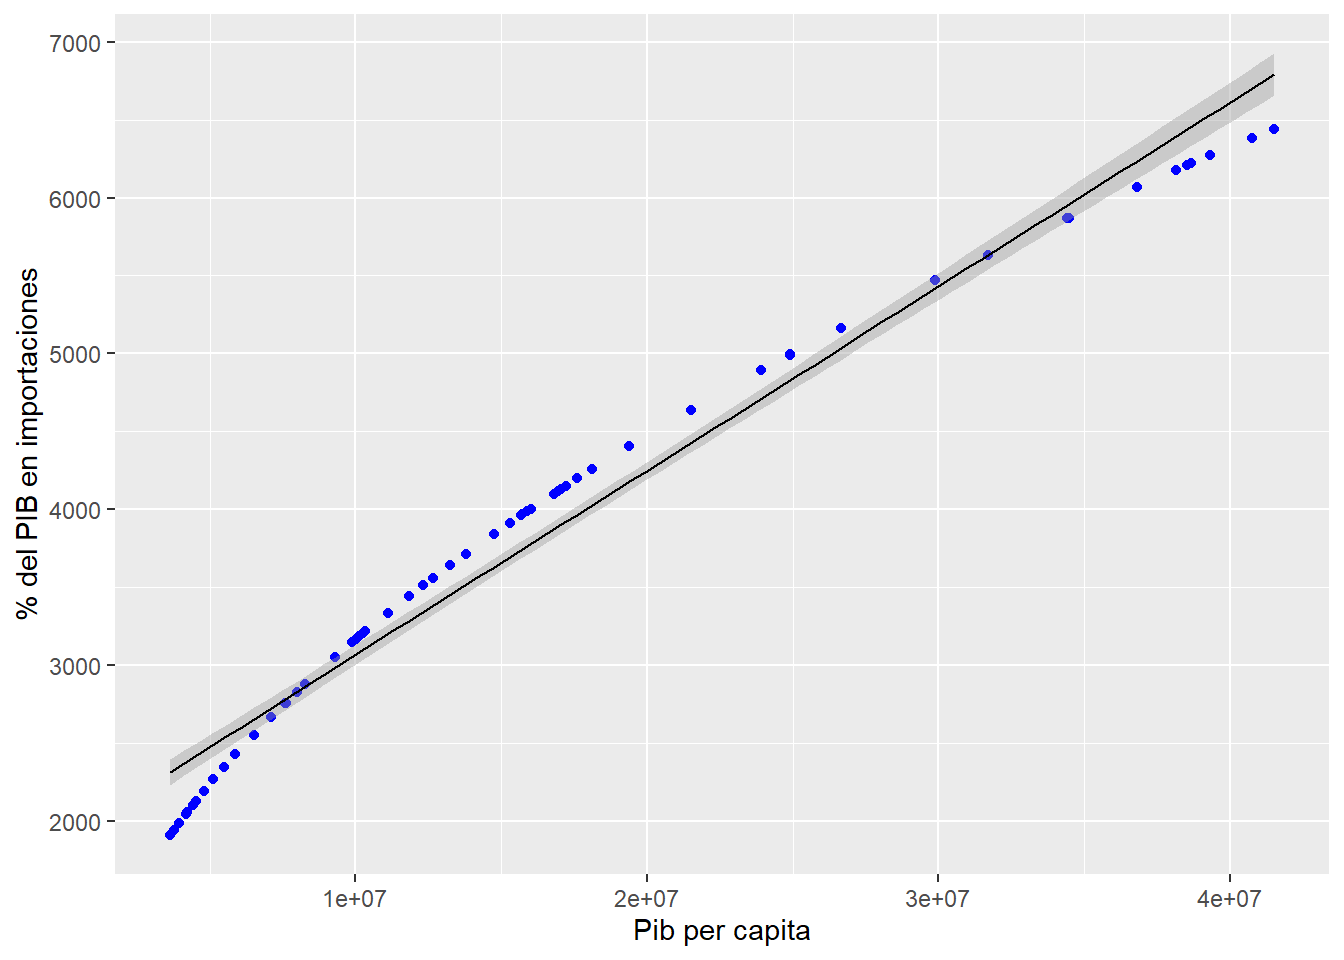
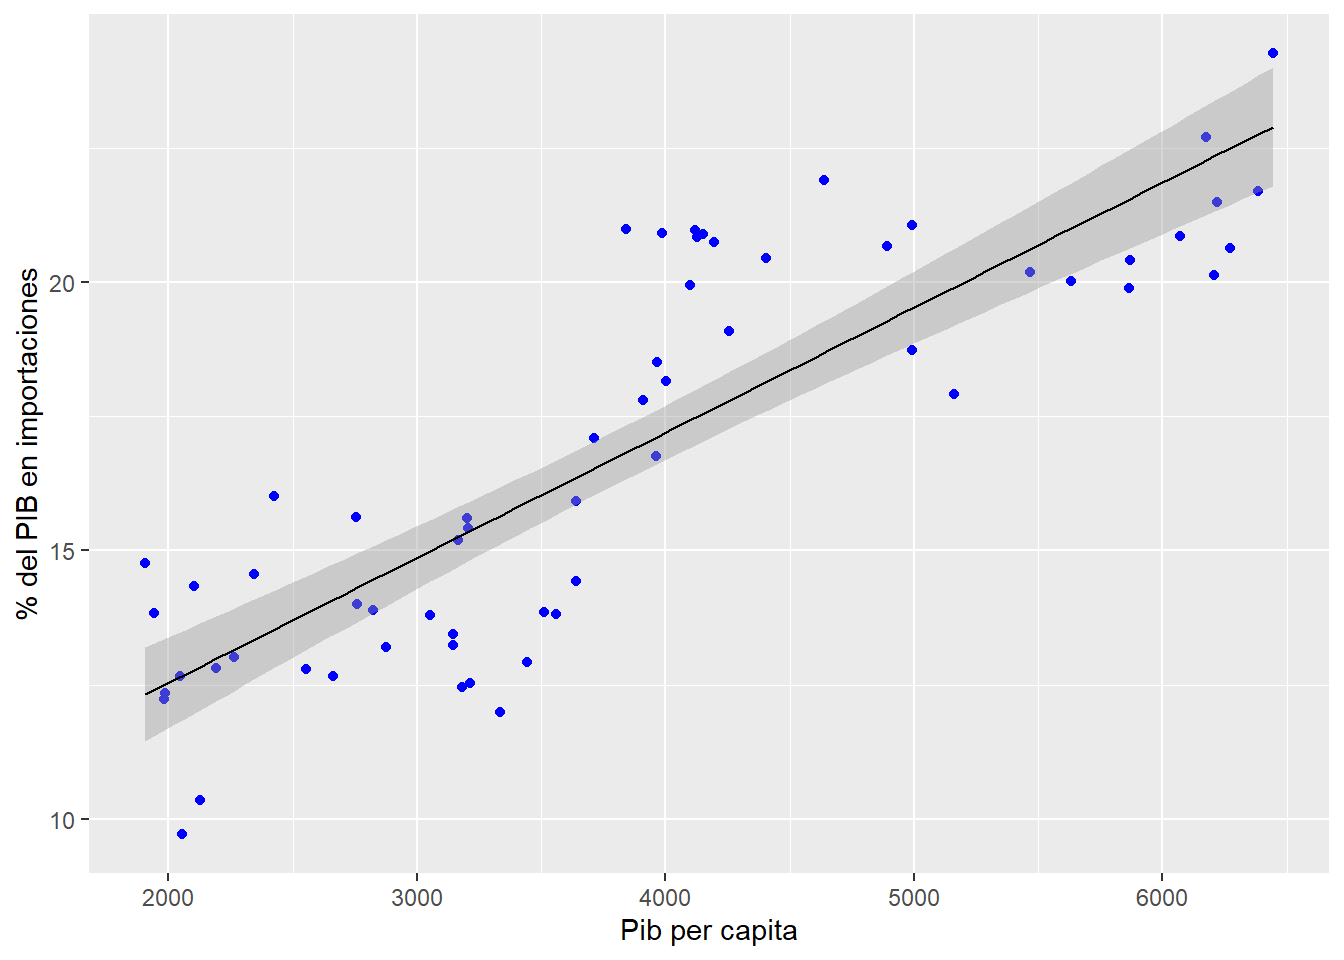
taller finalizado.

diff --git a/docs/punto-2.html b/docs/punto-2.html
@@ -23,7 +23,7 @@
 <meta name="author" content="Jorge Orozco" />
 
 
-<meta name="date" content="2022-08-23" />
+<meta name="date" content="2022-08-25" />
 
   <meta name="viewport" content="width=device-width, initial-scale=1" />
   <meta name="apple-mobile-web-app-capable" content="yes" />
@@ -138,7 +138,10 @@ code span.wa { color: #60a0b0; font-weight: bold; font-style: italic; } /* Warni
 <li class="divider"></li>
 <li class="chapter" data-level="1" data-path="index.html"><a href="index.html"><i class="fa fa-check"></i><b>1</b> Evaluación de impactos</a></li>
 <li class="chapter" data-level="2" data-path="punto-1.html"><a href="punto-1.html"><i class="fa fa-check"></i><b>2</b> Punto 1</a></li>
-<li class="chapter" data-level="3" data-path="punto-2.html"><a href="punto-2.html"><i class="fa fa-check"></i><b>3</b> Punto 2</a></li>
+<li class="chapter" data-level="3" data-path="punto-2.html"><a href="punto-2.html"><i class="fa fa-check"></i><b>3</b> Punto 2</a>
+<ul>
+<li class="chapter" data-level="3.1" data-path="punto-2.html"><a href="punto-2.html#referencias"><i class="fa fa-check"></i><b>3.1</b> Referencias</a></li>
+</ul></li>
 <li class="divider"></li>
 <li><a href="https://github.com/rstudio/bookdown" target="blank">Published with bookdown</a></li>
 
@@ -165,13 +168,14 @@ code span.wa { color: #60a0b0; font-weight: bold; font-style: italic; } /* Warni
 <ol style="list-style-type: lower-alpha">
 <li>Seleccione 2 variables económicas que tengan una relación teórica, describa que dice la teoría sobre esta relación y su interpretación sobre la forma de esta relación.</li>
 </ol>
-<p>La teoría económica presenta una relación desde la perspectiva macroeconómica en la cual en la ecuación fundamental del PIB a medida que se tiene mayor ingreso, aumenta el consumo de bienes ya sea importados o nacionales. Ademas, esta misma relación se puede observar desde la perspectiva microeconómica donde a mayor ingreso, mayor es el consumo de bienes de un individuo. Por lo anterior, es lógico afirmar que la forma de la relación de estas dos variables va a ser fuertemente asociadas y de sentido directo.</p>
+<p>La teoría económica presenta una relación desde la perspectiva macroeconómica en la cual en la ecuación fundamental del PIB a medida que se tiene mayor ingreso, aumenta el consumo de bienes ya sea importados o nacionales. Ademas, esta misma relación se puede observar desde la perspectiva microeconómica donde a mayor ingreso, mayor es el consumo de bienes de un individuo. Por lo anterior, es posible afirmar que la forma de la relación de estas dos variables va a ser fuertemente asociadas y de sentido directo.</p>
 <hr />
 <ol start="2" style="list-style-type: lower-alpha">
-<li>Busque las bases de datos adecuadas para representar ambas variables económicas. Describa la fuente de la información (ej. DANE, Banco mundial, Banco de la república, etc)</li>
+<li>Busque las bases de datos adecuadas para representar ambas variables económicas. Describa la fuente de la información (ej. DANE, Banco mundial, Banco de la república, etc).</li>
 </ol>
-<p>PIB per capita: World Data Bank
-% del PIB en importaciones: World Data Bank</p>
+<p>Se utilizarán las siguientes bases de datos en un periodo de tiempo de 60 años para verificar la relación económica estudiada en el país Colombia.</p>
+<p>PIB per capita: World Data Bank.</p>
+<p>% del PIB en importaciones: World Data Bank.</p>
 <hr />
 <ol start="3" style="list-style-type: lower-alpha">
 <li>Haga las transformaciones que considere pertinentes para poder ver la relación entre ambas variables.</li>
@@ -225,14 +229,14 @@ code span.wa { color: #60a0b0; font-weight: bold; font-style: italic; } /* Warni
 <div class="sourceCode" id="cb6"><pre class="sourceCode r"><code class="sourceCode r"><span id="cb6-1"><a href="punto-2.html#cb6-1" aria-hidden="true" tabindex="-1"></a><span class="co"># Grafico de correlacion</span></span>
 <span id="cb6-2"><a href="punto-2.html#cb6-2" aria-hidden="true" tabindex="-1"></a><span class="fu">library</span>(PerformanceAnalytics)</span>
 <span id="cb6-3"><a href="punto-2.html#cb6-3" aria-hidden="true" tabindex="-1"></a><span class="fu">chart.Correlation</span>(Base, <span class="at">histogram =</span> <span class="cn">TRUE</span>, <span class="at">method =</span> <span class="st">&quot;pearson&quot;</span>)</span></code></pre></div>
-<p><img src="bookdownproj_files/figure-html/unnamed-chunk-6-1.png" width="672" /></p>
+<p><img src="bookdownproj_files/figure-html/unnamed-chunk-7-1.png" width="672" /></p>
 <p>Grafico de dispersion:</p>
 <div class="sourceCode" id="cb7"><pre class="sourceCode r"><code class="sourceCode r"><span id="cb7-1"><a href="punto-2.html#cb7-1" aria-hidden="true" tabindex="-1"></a><span class="co"># Grafico de dispersion</span></span>
 <span id="cb7-2"><a href="punto-2.html#cb7-2" aria-hidden="true" tabindex="-1"></a><span class="fu">library</span>(ggplot2)</span>
 <span id="cb7-3"><a href="punto-2.html#cb7-3" aria-hidden="true" tabindex="-1"></a>g<span class="ot">&lt;-</span><span class="fu">ggplot</span>(Base, <span class="fu">aes</span>(<span class="at">x=</span>Base<span class="sc">$</span><span class="st">`</span><span class="at">PIB per capita</span><span class="st">`</span>, <span class="at">y=</span>Base<span class="sc">$</span><span class="st">`</span><span class="at">% PIB Imports</span><span class="st">`</span>))<span class="sc">+</span><span class="fu">geom_point</span>()</span>
 <span id="cb7-4"><a href="punto-2.html#cb7-4" aria-hidden="true" tabindex="-1"></a>g<span class="ot">&lt;-</span>g<span class="sc">+</span><span class="fu">theme_minimal</span>()<span class="sc">+</span><span class="fu">ggtitle</span>(<span class="st">&quot;Grafico de dispersion&quot;</span>)<span class="sc">+</span><span class="fu">labs</span>(<span class="at">x=</span><span class="st">&quot;PIB per capita&quot;</span>, <span class="at">y=</span><span class="st">&quot;% PIB en Importaciones&quot;</span>,<span class="at">caption=</span><span class="st">&quot;Autor: Jorge Orozco&quot;</span>)</span>
 <span id="cb7-5"><a href="punto-2.html#cb7-5" aria-hidden="true" tabindex="-1"></a>g</span></code></pre></div>
-<p><img src="bookdownproj_files/figure-html/unnamed-chunk-7-1.png" width="672" /></p>
+<p><img src="bookdownproj_files/figure-html/unnamed-chunk-8-1.png" width="672" /></p>
 <p>Modelo de regresion:</p>
 <div class="sourceCode" id="cb8"><pre class="sourceCode r"><code class="sourceCode r"><span id="cb8-1"><a href="punto-2.html#cb8-1" aria-hidden="true" tabindex="-1"></a><span class="co"># Modelo</span></span>
 <span id="cb8-2"><a href="punto-2.html#cb8-2" aria-hidden="true" tabindex="-1"></a>modelo<span class="ot">&lt;-</span><span class="fu">lm</span>(Base<span class="sc">$</span><span class="st">`</span><span class="at">PIB per capita</span><span class="st">`</span><span class="sc">~</span>Base<span class="sc">$</span><span class="st">`</span><span class="at">% PIB Imports</span><span class="st">`</span>,<span class="at">data=</span>Base)</span>
@@ -256,7 +260,7 @@ code span.wa { color: #60a0b0; font-weight: bold; font-style: italic; } /* Warni
 ## Multiple R-squared:  0.7195, Adjusted R-squared:  0.7149 
 ## F-statistic: 153.9 on 1 and 60 DF,  p-value: &lt; 2.2e-16</code></pre>
 <div class="sourceCode" id="cb10"><pre class="sourceCode r"><code class="sourceCode r"><span id="cb10-1"><a href="punto-2.html#cb10-1" aria-hidden="true" tabindex="-1"></a><span class="fu">ggplot</span>(<span class="at">data=</span>Base, <span class="fu">aes</span>(<span class="at">y=</span>Base<span class="sc">$</span><span class="st">`</span><span class="at">% PIB Imports</span><span class="st">`</span>,<span class="at">x=</span>Base<span class="sc">$</span><span class="st">`</span><span class="at">PIB per capita</span><span class="st">`</span>))<span class="sc">+</span><span class="fu">geom_point</span>(<span class="at">col=</span><span class="st">&quot;blue&quot;</span>)<span class="sc">+</span><span class="fu">geom_smooth</span>(<span class="at">method=</span><span class="st">&quot;lm&quot;</span>,<span class="at">col=</span><span class="st">&quot;black&quot;</span>,<span class="at">size=</span><span class="fl">0.5</span>)<span class="sc">+</span><span class="fu">labs</span>(<span class="at">x=</span><span class="st">&quot;Pib per capita&quot;</span>,<span class="at">y=</span><span class="st">&quot;% del PIB en importaciones&quot;</span>)</span></code></pre></div>
-<p><img src="bookdownproj_files/figure-html/unnamed-chunk-8-1.png" width="672" /></p>
+<p><img src="bookdownproj_files/figure-html/unnamed-chunk-9-1.png" width="672" /></p>
 <p>Modelo de regresion cuadratico:</p>
 <div class="sourceCode" id="cb11"><pre class="sourceCode r"><code class="sourceCode r"><span id="cb11-1"><a href="punto-2.html#cb11-1" aria-hidden="true" tabindex="-1"></a>modelo2<span class="ot">&lt;-</span><span class="fu">lm</span>(Base<span class="sc">$</span><span class="st">`</span><span class="at">PIB per capita</span><span class="st">`</span><span class="sc">~</span>Base<span class="sc">$</span><span class="st">`</span><span class="at">% PIB Imports</span><span class="st">`</span><span class="sc">^</span><span class="dv">2</span>)</span>
 <span id="cb11-2"><a href="punto-2.html#cb11-2" aria-hidden="true" tabindex="-1"></a><span class="fu">summary</span>(modelo2)</span></code></pre></div>
@@ -279,12 +283,21 @@ code span.wa { color: #60a0b0; font-weight: bold; font-style: italic; } /* Warni
 ## Multiple R-squared:  0.7195, Adjusted R-squared:  0.7149 
 ## F-statistic: 153.9 on 1 and 60 DF,  p-value: &lt; 2.2e-16</code></pre>
 <div class="sourceCode" id="cb13"><pre class="sourceCode r"><code class="sourceCode r"><span id="cb13-1"><a href="punto-2.html#cb13-1" aria-hidden="true" tabindex="-1"></a><span class="fu">ggplot</span>(<span class="at">data=</span>Base, <span class="fu">aes</span>(<span class="at">y=</span>Base<span class="sc">$</span><span class="st">`</span><span class="at">PIB per capita</span><span class="st">`</span>,<span class="at">x=</span>Base<span class="sc">$</span><span class="st">`</span><span class="at">PIB per capita</span><span class="st">`</span><span class="sc">^</span><span class="dv">2</span>))<span class="sc">+</span><span class="fu">geom_point</span>(<span class="at">col=</span><span class="st">&quot;blue&quot;</span>)<span class="sc">+</span><span class="fu">geom_smooth</span>(<span class="at">method=</span><span class="st">&quot;lm&quot;</span>,<span class="at">col=</span><span class="st">&quot;black&quot;</span>,<span class="at">size=</span><span class="fl">0.5</span>)<span class="sc">+</span><span class="fu">labs</span>(<span class="at">x=</span><span class="st">&quot;Pib per capita&quot;</span>,<span class="at">y=</span><span class="st">&quot;% del PIB en importaciones&quot;</span>)</span></code></pre></div>
-<p><img src="bookdownproj_files/figure-html/unnamed-chunk-9-1.png" width="672" />
+<p><img src="bookdownproj_files/figure-html/unnamed-chunk-10-1.png" width="672" />
 _______________________________________________________________________________</p>
 <ol start="5" style="list-style-type: lower-alpha">
 <li>Interprete los resultados en función de la teoría que recopilo en el literal a.</li>
 </ol>
+<p>Los resultados obtenidos en la gráfica de correlación nos marcan un grado de asociación de 0.85 por lo cual podemos inferir que nuestras dos variables están fuertemente relacionadas. Este grado de relación indica una asociación fuerte y positiva. Ademas, los resultados de la gráfica de dispersión nos confirman doblemente esta relación positiva y directa entre las variables. Se puede observar como los puntos alrededor de la nube están distribuidos de buena manera y no parece haber un sesgo, aun así, se sugiere hacer una prueba para comprobarlo. Por otro lado, desde el punto de vista del modelo de regresión podemos observar; un grado de significancia elevado (tres estrellas para nuestra variable) y una relación positiva entre esta y la variable explicada. Un coeficiente de correlación (r2) de 0.71 y una p - value que indica significancia estadística.</p>
+<p>Todo el análisis anterior nos confirma que tal cual indicaba la teoría económica acerca de la relación de estas dos variables parece que se cumple en el caso de Colombia, se concluye pues que a medida que crece el pib per cápita a su vez crece el % de importaciones. Esto es lógico ya que a mayor ingreso disponible para el país mayor va a ser su adquisición de bienes y servicios. Finalmente, el modelo cuadrático muestra un comportamiento exponencial lo cual ratifica los resultados anteriores.</p>
+<hr />
+<div id="referencias" class="section level2 hasAnchor" number="3.1">
+<h2><span class="header-section-number">3.1</span> Referencias<a href="punto-2.html#referencias" class="anchor-section" aria-label="Anchor link to header"></a></h2>
+<p>Blanchard O. Melino A. &amp; Johnson D. R. (2003). Macroeconomics (2nd Canadian). Prentice Hall.</p>
+<p>Acemoglu, D., Laibson, D., &amp; List, J. (2017). Economía ([edition missing]). Antoni Bosch Editor, S.A. Retrieved from <a href="https://www.perlego.com/book/2809312/economa-pdf" class="uri">https://www.perlego.com/book/2809312/economa-pdf</a> (Original work published 2017)</p>
+<p>Wooldridge, J. M. (2010). INTRODUCCION A LA ECONOMETRIA: UN ENFOQUE MODERNO (4a. ed.). MEXICO: CENGAGE LEARNING.</p>
 
+</div>
 </div>
             </section>
 
@@ -346,6 +359,20 @@ gitbook.start({
 });
 </script>
 
+<!-- dynamically load mathjax for compatibility with self-contained -->
+<script>
+  (function () {
+    var script = document.createElement("script");
+    script.type = "text/javascript";
+    var src = "true";
+    if (src === "" || src === "true") src = "https://cdnjs.cloudflare.com/ajax/libs/mathjax/2.7.9/latest.js?config=TeX-MML-AM_CHTML";
+    if (location.protocol !== "file:")
+      if (/^https?:/.test(src))
+        src = src.replace(/^https?:/, '');
+    script.src = src;
+    document.getElementsByTagName("head")[0].appendChild(script);
+  })();
+</script>
 </body>
 
 </html>

diff --git a/docs/punto-1.html b/docs/punto-1.html
@@ -23,7 +23,7 @@
 <meta name="author" content="Jorge Orozco" />
 
 
-<meta name="date" content="2022-08-23" />
+<meta name="date" content="2022-08-25" />
 
   <meta name="viewport" content="width=device-width, initial-scale=1" />
   <meta name="apple-mobile-web-app-capable" content="yes" />
@@ -138,7 +138,10 @@ code span.wa { color: #60a0b0; font-weight: bold; font-style: italic; } /* Warni
 <li class="divider"></li>
 <li class="chapter" data-level="1" data-path="index.html"><a href="index.html"><i class="fa fa-check"></i><b>1</b> Evaluación de impactos</a></li>
 <li class="chapter" data-level="2" data-path="punto-1.html"><a href="punto-1.html"><i class="fa fa-check"></i><b>2</b> Punto 1</a></li>
-<li class="chapter" data-level="3" data-path="punto-2.html"><a href="punto-2.html"><i class="fa fa-check"></i><b>3</b> Punto 2</a></li>
+<li class="chapter" data-level="3" data-path="punto-2.html"><a href="punto-2.html"><i class="fa fa-check"></i><b>3</b> Punto 2</a>
+<ul>
+<li class="chapter" data-level="3.1" data-path="punto-2.html"><a href="punto-2.html#referencias"><i class="fa fa-check"></i><b>3.1</b> Referencias</a></li>
+</ul></li>
 <li class="divider"></li>
 <li><a href="https://github.com/rstudio/bookdown" target="blank">Published with bookdown</a></li>
 
@@ -170,16 +173,26 @@ code span.wa { color: #60a0b0; font-weight: bold; font-style: italic; } /* Warni
 <ol start="2" style="list-style-type: lower-alpha">
 <li>Describa un ejemplo de una evaluación en la que se pueda incurrir en problema de selección (No use los ejemplos de la lectura)</li>
 </ol>
-<p>Un estudio que quiera medir el impacto de la educación en los ingresos de los individuos; este estudio debe tener un cauteloso diseño de investigación para no cometer errores de sesgos de selección muestral ya que si, por ejemplo; este estudio se realiza en únicamente establecimientos educativos privados. Lógicamente, la mayoría de los individuos que asisten a este tipo de establecimientos son personas acomodadas en términos de ingresos. Por lo que se estaría sesgando el estudio hacia una sobreestimación de los resultados.</p>
+<p>Un estudio que quiera medir el impacto de la educación en los ingresos de los individuos; este estudio debe tener un cauteloso diseño de investigación para no cometer errores de sesgos de selección muestral ya que si, por ejemplo; este estudio se realiza en únicamente establecimientos educativos privados, lógicamente la mayoría de los individuos que asisten a este tipo de establecimientos son personas acomodadas en términos de ingresos, por lo que se estaría sesgando el estudio hacia una sobreestimación de los resultados.</p>
 <hr />
 <ol start="3" style="list-style-type: lower-alpha">
 <li>Derive matemáticamente a que es igual el sesgo de selección.</li>
 </ol>
+<p>Partimos de la siguiente ecuación:</p>
+<p><span class="math display">\[y_{i}=y_{0i}+(y_{1i}-y_{0i})*D_{i}\]</span>
+<span class="math display">\[E(y_{i}|D_{i}=1)-E(y_{i}|D_{i}=0)\]</span>
+<span class="math display">\[E(y_{0i}+(y_{1i}-y_{0i})*D_{i}|D_{i}=1)-E(y_{0i}+(y_{1i}-y_{0i})*D_{i}|D_{i}=0)\]</span>
+Nótese que podemos igualar las expresiones:</p>
+<p><span class="math display">\[E(y_{01}+y_{1i}-y_{01}|D_{i}=1)-E(y_{0i}|D_{i}=0)\]</span>
+Ahora podemos separar los componentes de la suma:</p>
+<p><span class="math display">\[E(y_{1i}|D_{i}=1)+E(y_{1i}-y_{0i}|D_{i}=1)-E(y_{0i}|D_{i}=0)\]</span></p>
+<p>Finalmente el sesgo de seleccion lo obtenemos cuando:</p>
+<p><span class="math display">\[E(y_{1i}|D_{i}=1)-E(y_{0i}|D_{i}=0)\]</span></p>
 <hr />
 <ol start="4" style="list-style-type: lower-alpha">
 <li>Describa en sus palabras porque es importante la aleatorización para solucionar el sesgo de selección</li>
 </ol>
-<p>Debido a la naturaleza intrínseca que implica el sesgo de selección el cual consiste precisamente en ser objetivos al momento de diseñar el estudio y muestreo de una poblacion. La Aleatorización aparece como una herramienta que permite solucionar este problema de falta de objetividad e imparcialidad puesto que deja este proceso “al azar”. Lo cual permite que la distribución de probabilidad sea lo mas optima posible para trabajar y que se cumplan los dos criterios de representatividad y certeza.</p>
+<p>Debido a la naturaleza intrínseca que implica el sesgo de selección el cual consiste precisamente en ser objetivos al momento de diseñar el estudio y muestreo de una poblacion. La Aleatorización aparece como una herramienta que permite solucionar este problema de falta de objetividad e imparcialidad puesto que deja este proceso “al azar” lo cual permite que la distribución de probabilidad sea lo más optima posible para trabajar y que se cumplan los dos criterios de representatividad y certeza.</p>
 
 </div>
             </section>
@@ -242,6 +255,20 @@ gitbook.start({
 });
 </script>
 
+<!-- dynamically load mathjax for compatibility with self-contained -->
+<script>
+  (function () {
+    var script = document.createElement("script");
+    script.type = "text/javascript";
+    var src = "true";
+    if (src === "" || src === "true") src = "https://cdnjs.cloudflare.com/ajax/libs/mathjax/2.7.9/latest.js?config=TeX-MML-AM_CHTML";
+    if (location.protocol !== "file:")
+      if (/^https?:/.test(src))
+        src = src.replace(/^https?:/, '');
+    script.src = src;
+    document.getElementsByTagName("head")[0].appendChild(script);
+  })();
+</script>
 </body>
 
 </html>

diff --git a/docs/index.html b/docs/index.html
@@ -23,7 +23,7 @@
 <meta name="author" content="Jorge Orozco" />
 
 
-<meta name="date" content="2022-08-23" />
+<meta name="date" content="2022-08-25" />
 
   <meta name="viewport" content="width=device-width, initial-scale=1" />
   <meta name="apple-mobile-web-app-capable" content="yes" />
@@ -138,7 +138,10 @@ code span.wa { color: #60a0b0; font-weight: bold; font-style: italic; } /* Warni
 <li class="divider"></li>
 <li class="chapter" data-level="1" data-path="index.html"><a href="index.html"><i class="fa fa-check"></i><b>1</b> Evaluación de impactos</a></li>
 <li class="chapter" data-level="2" data-path="punto-1.html"><a href="punto-1.html"><i class="fa fa-check"></i><b>2</b> Punto 1</a></li>
-<li class="chapter" data-level="3" data-path="punto-2.html"><a href="punto-2.html"><i class="fa fa-check"></i><b>3</b> Punto 2</a></li>
+<li class="chapter" data-level="3" data-path="punto-2.html"><a href="punto-2.html"><i class="fa fa-check"></i><b>3</b> Punto 2</a>
+<ul>
+<li class="chapter" data-level="3.1" data-path="punto-2.html"><a href="punto-2.html#referencias"><i class="fa fa-check"></i><b>3.1</b> Referencias</a></li>
+</ul></li>
 <li class="divider"></li>
 <li><a href="https://github.com/rstudio/bookdown" target="blank">Published with bookdown</a></li>
 
@@ -162,7 +165,7 @@ code span.wa { color: #60a0b0; font-weight: bold; font-style: italic; } /* Warni
 <div id="header">
 <h1 class="title">Taller 1</h1>
 <p class="author"><em>Jorge Orozco</em></p>
-<p class="date"><em>2022-08-23</em></p>
+<p class="date"><em>2022-08-25</em></p>
 </div>
 <div id="evaluación-de-impactos" class="section level1 hasAnchor" number="1">
 <h1><span class="header-section-number"> 1</span> Evaluación de impactos<a href="index.html#evaluación-de-impactos" class="anchor-section" aria-label="Anchor link to header"></a></h1>
@@ -228,6 +231,20 @@ gitbook.start({
 });
 </script>
 
+<!-- dynamically load mathjax for compatibility with self-contained -->
+<script>
+  (function () {
+    var script = document.createElement("script");
+    script.type = "text/javascript";
+    var src = "true";
+    if (src === "" || src === "true") src = "https://cdnjs.cloudflare.com/ajax/libs/mathjax/2.7.9/latest.js?config=TeX-MML-AM_CHTML";
+    if (location.protocol !== "file:")
+      if (/^https?:/.test(src))
+        src = src.replace(/^https?:/, '');
+    script.src = src;
+    document.getElementsByTagName("head")[0].appendChild(script);
+  })();
+</script>
 </body>
 
 </html>

diff --git a/docs/404.html b/docs/404.html
@@ -23,7 +23,7 @@
 <meta name="author" content="Jorge Orozco" />
 
 
-<meta name="date" content="2022-08-23" />
+<meta name="date" content="2022-08-25" />
 
   <meta name="viewport" content="width=device-width, initial-scale=1" />
   <meta name="apple-mobile-web-app-capable" content="yes" />
@@ -138,7 +138,10 @@ code span.wa { color: #60a0b0; font-weight: bold; font-style: italic; } /* Warni
 <li class="divider"></li>
 <li class="chapter" data-level="1" data-path="index.html"><a href="index.html"><i class="fa fa-check"></i><b>1</b> Evaluación de impactos</a></li>
 <li class="chapter" data-level="2" data-path="punto-1.html"><a href="punto-1.html"><i class="fa fa-check"></i><b>2</b> Punto 1</a></li>
-<li class="chapter" data-level="3" data-path="punto-2.html"><a href="punto-2.html"><i class="fa fa-check"></i><b>3</b> Punto 2</a></li>
+<li class="chapter" data-level="3" data-path="punto-2.html"><a href="punto-2.html"><i class="fa fa-check"></i><b>3</b> Punto 2</a>
+<ul>
+<li class="chapter" data-level="3.1" data-path="punto-2.html"><a href="punto-2.html#referencias"><i class="fa fa-check"></i><b>3.1</b> Referencias</a></li>
+</ul></li>
 <li class="divider"></li>
 <li><a href="https://github.com/rstudio/bookdown" target="blank">Published with bookdown</a></li>
 
@@ -225,6 +228,20 @@ gitbook.start({
 });
 </script>
 
+<!-- dynamically load mathjax for compatibility with self-contained -->
+<script>
+  (function () {
+    var script = document.createElement("script");
+    script.type = "text/javascript";
+    var src = "true";
+    if (src === "" || src === "true") src = "https://cdnjs.cloudflare.com/ajax/libs/mathjax/2.7.9/latest.js?config=TeX-MML-AM_CHTML";
+    if (location.protocol !== "file:")
+      if (/^https?:/.test(src))
+        src = src.replace(/^https?:/, '');
+    script.src = src;
+    document.getElementsByTagName("head")[0].appendChild(script);
+  })();
+</script>
 </body>
 
 </html>
